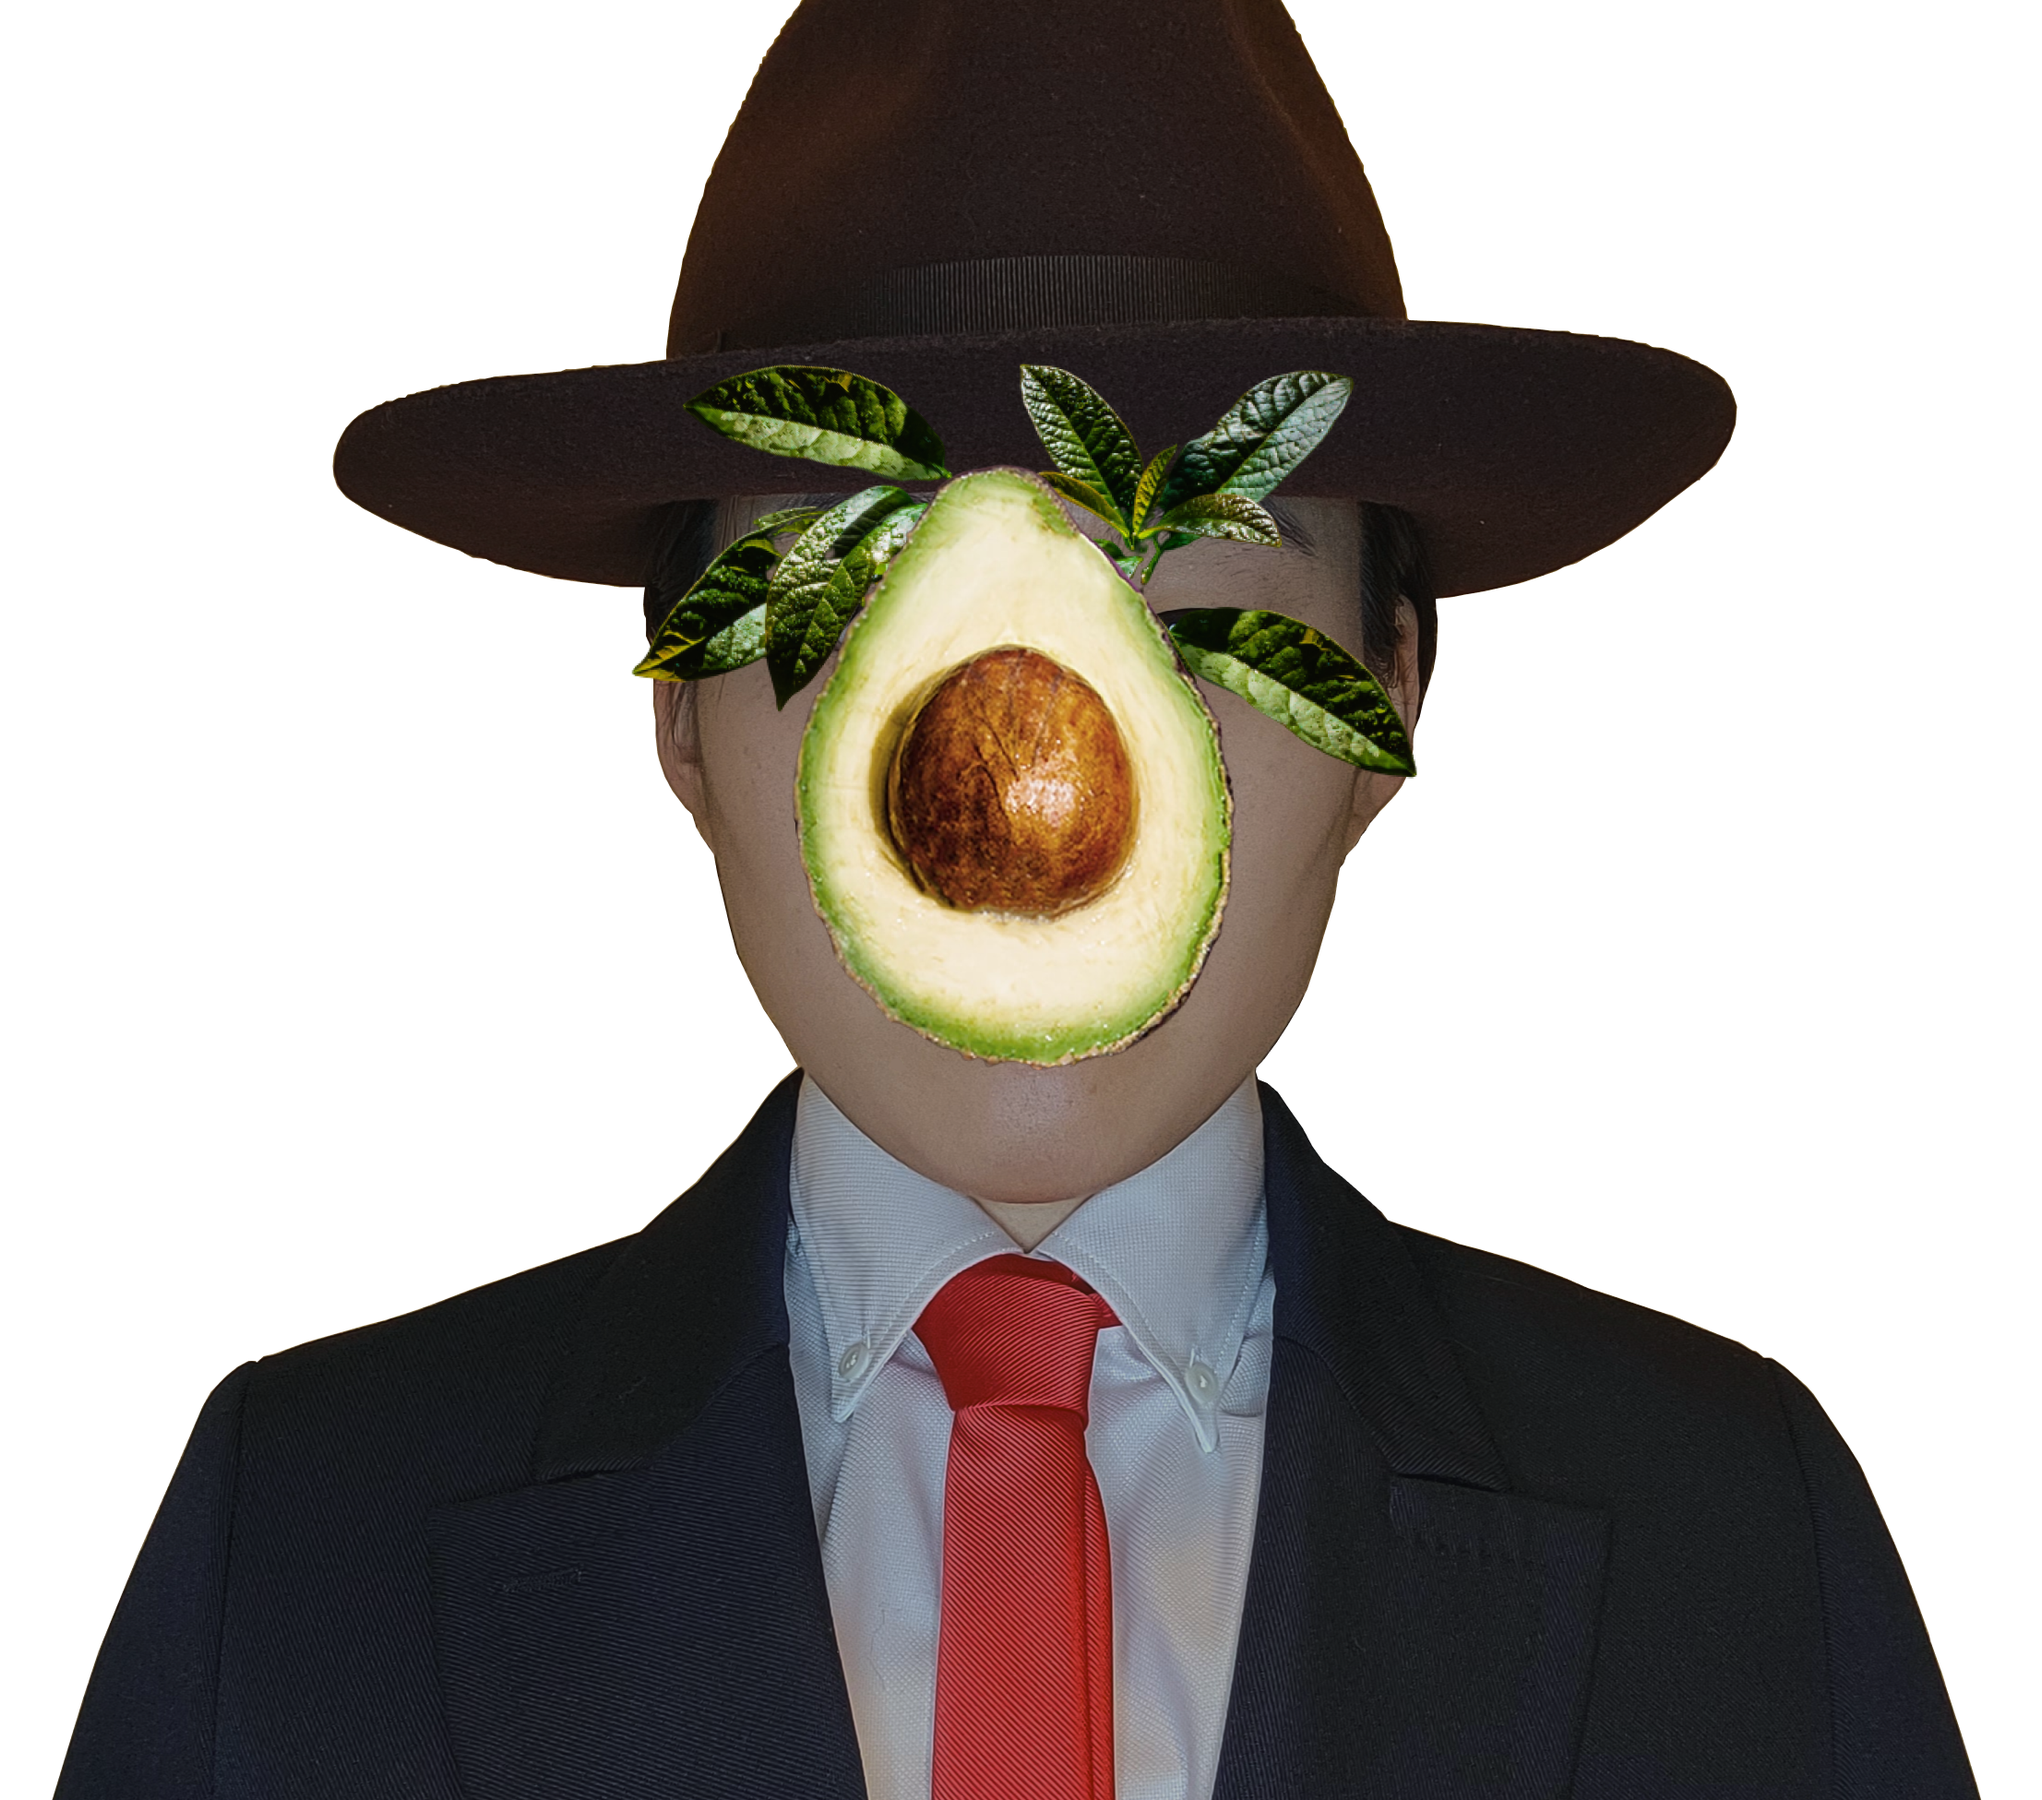
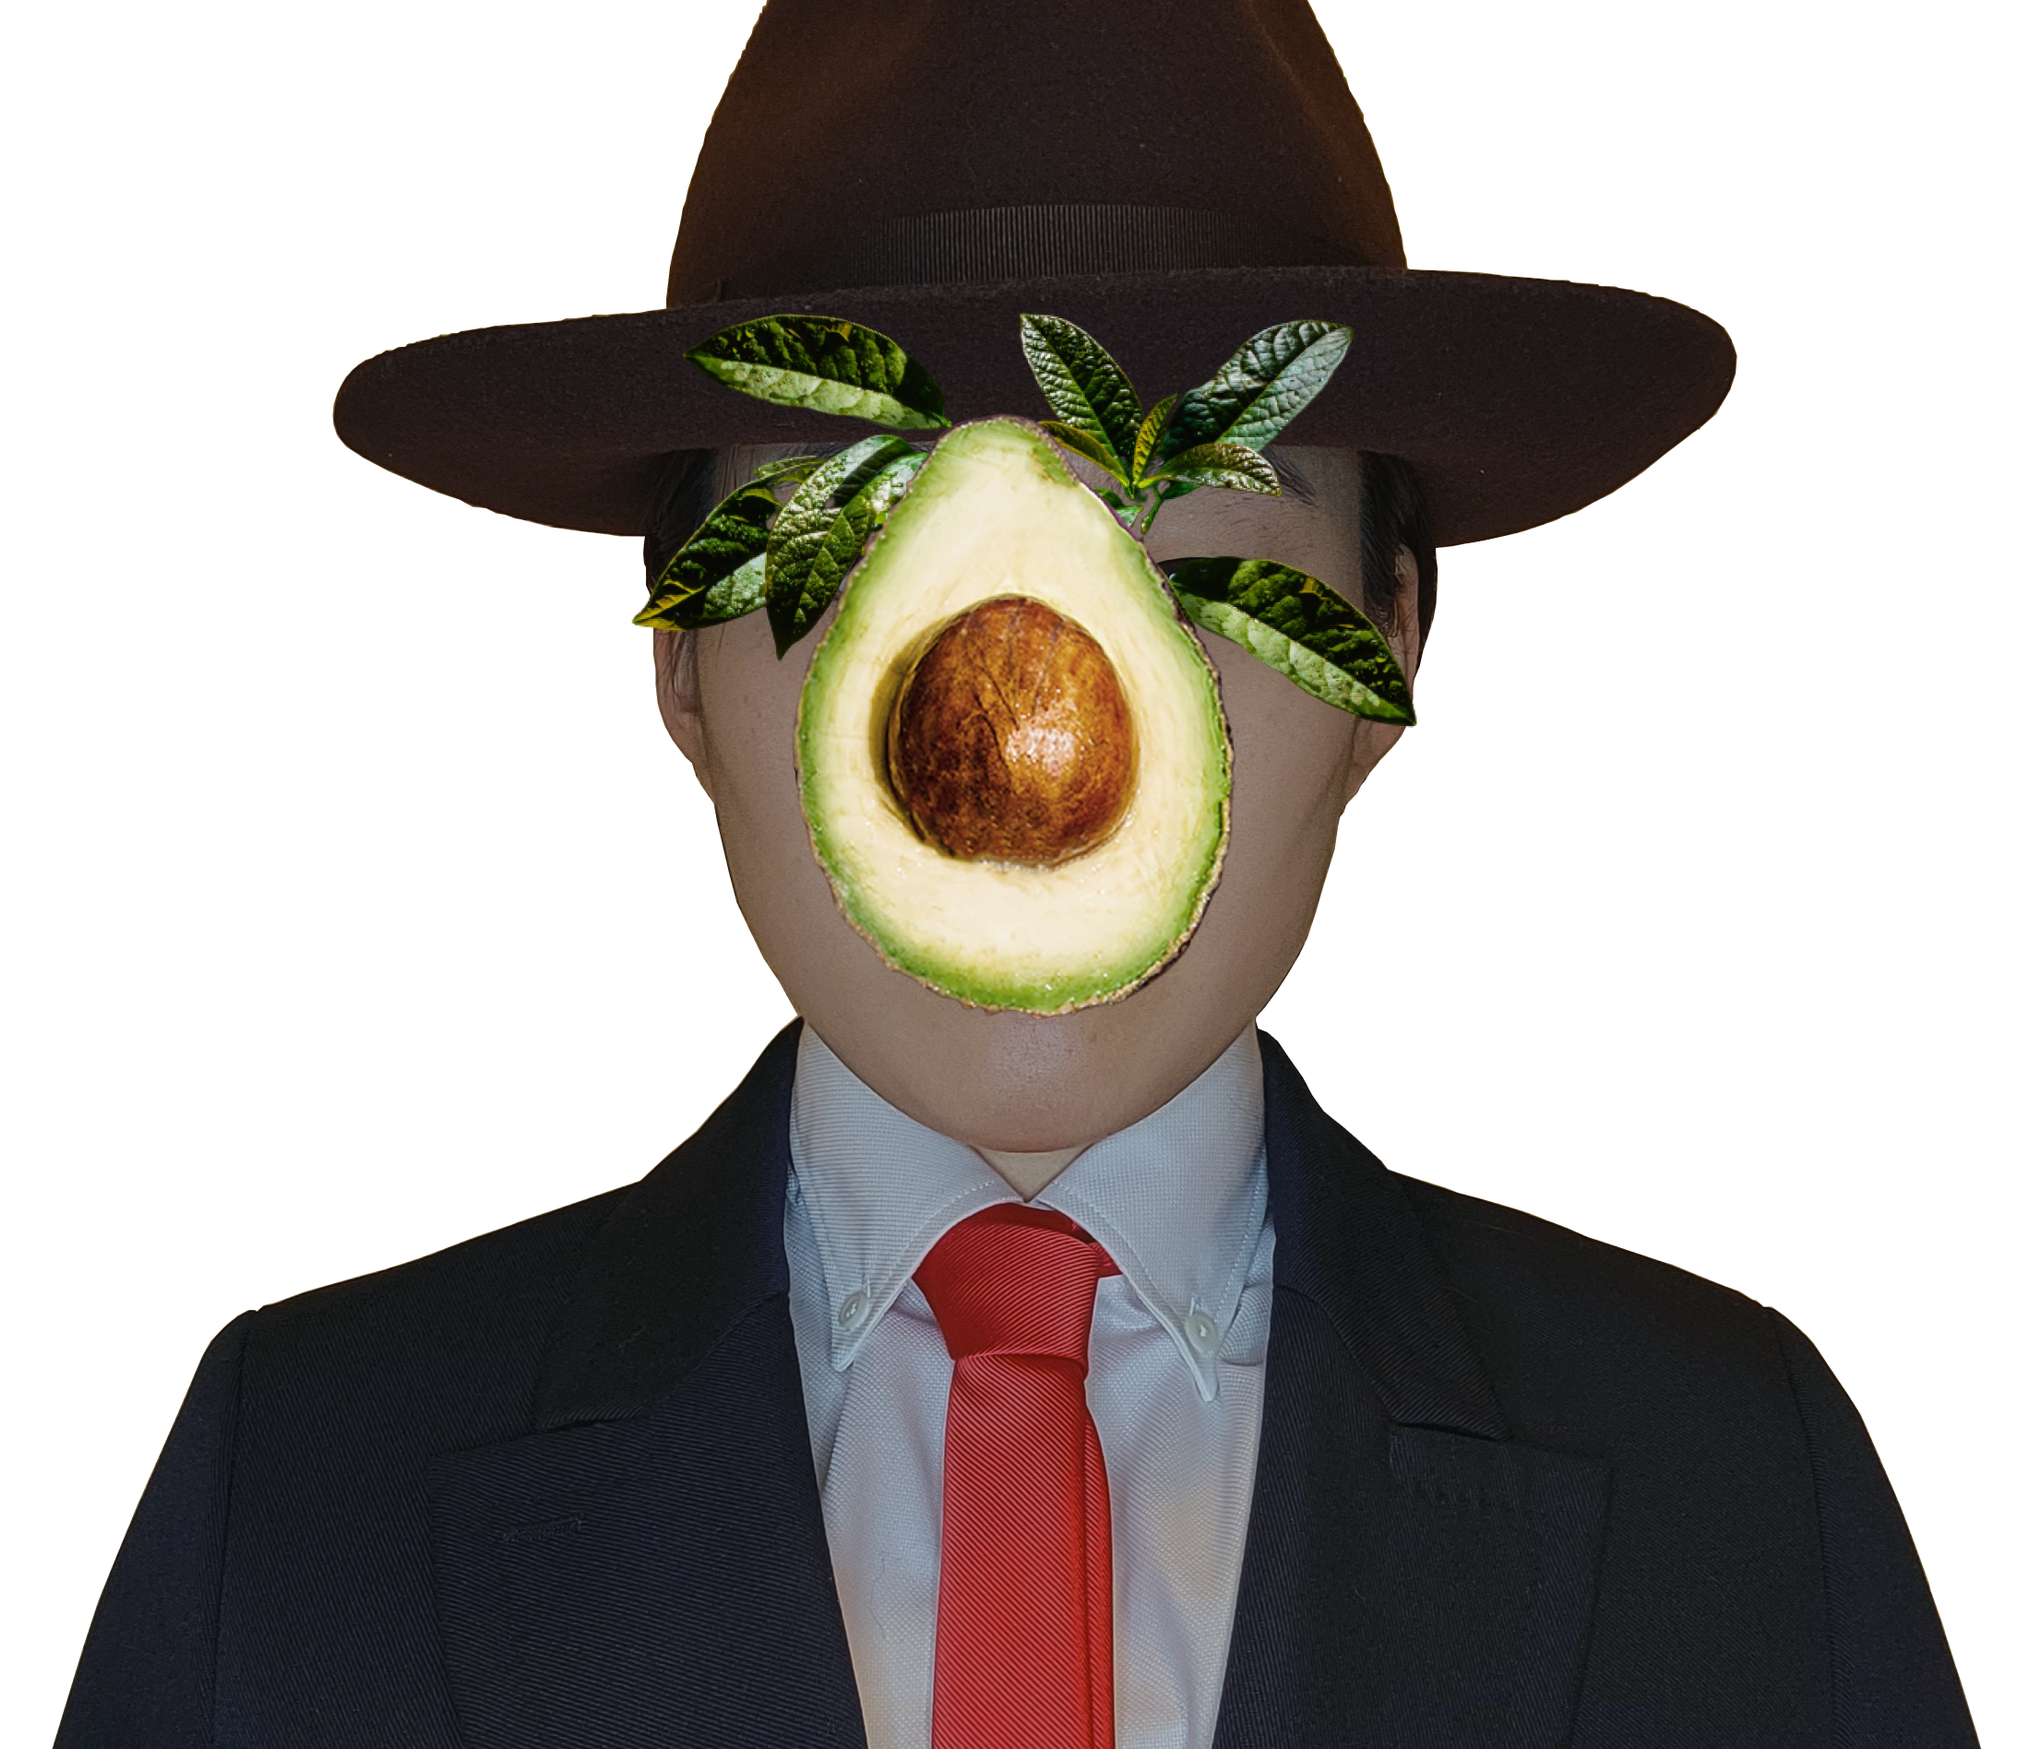
header bug fix

diff --git a/index.html b/index.html
@@ -62,16 +62,17 @@
 
         <!-- INTRODUCTION + HERO -->
         <div class= "intro-index">
-          <div class="fade-in one">
-            <img class="hero-desktop" src="images/header/header-image-desktop.png"
-              alt="Image of GRACE LEE paying homage to Magritte's Son of Man
-              but with an avocado over face instead of apple">
-            <img class="hero-mobile" src="images/header/header-image-mobile.png"
-              alt="Image of GRACE LEE paying homage to Magritte's Son of Man
-              but with an avocado over face instead of apple">
+          <div class="fade-in one combine-image">
             <img class="circle-animation one image" src="images/header/circle.png"
               alt="animated circle">
-
+            <div class="image-cluster">
+              <img class="hero-desktop" src="images/header/header-image-desktop.png"
+                alt="Image of GRACE LEE paying homage to Magritte's Son of Man
+                but with an avocado over face instead of apple">
+              <img class="hero-mobile" src="images/header/header-image-mobile.png"
+                alt="Image of GRACE LEE paying homage to Magritte's Son of Man
+                but with an avocado over face instead of apple">
+            </div>
           </div>
 
           <h1 class="fade-in two">GRACE LEE</h1>
@@ -311,6 +312,18 @@
     <!-- JAVASCRIPT -->
     <script src="https://ajax.googleapis.com/ajax/libs/jquery/1.12.4/jquery.min.js"></script>
     <script src="js/script.js"></script>
+    <script>
+    var docWidth = document.documentElement.offsetWidth;
+
+    [].forEach.call(
+      document.querySelectorAll('*'),
+      function(el) {
+        if (el.offsetWidth > docWidth) {
+          console.log(el);
+        }
+      }
+    );
+    </script>
 
     <!-- Global site tag (gtag.js) - Google Analytics -->
     <script async src="https://www.googletagmanager.com/gtag/js?id=UA-126022629-1"></script>

diff --git a/styles/main.css b/styles/main.css
@@ -125,28 +125,34 @@ nav .icon:hover {
   overflow: hidden;
   background-color: var(--background-color);
 }
-.hero-desktop {
+.combine-image {
   width: 1000px;
+  height: 700px;
+  margin: auto;
+  overflow: hidden;
 }
-.circle-animation {
-  /* width: 100%; */
-  width: 628px;
-  display: block;
-  /* margin: auto;
-  margin-top: -52rem;
-  margin-bottom: 7rem;
-  padding-bottom: 1rem; */
-
+.image-cluster {
   position: absolute;
   left: 0;
   right: 0;
-  top: 120px;
   margin: auto;
-  z-index: -1;
-
+  margin-top: -650px;
+  z-index: 1;
+  overflow: hidden;
+}
+.hero-desktop {
+  width: 807px;
+  overflow-x: hidden;
+}
+.circle-position {
+  padding-top: 1rem;
+  overflow: hidden;
+}
+.circle-animation {
+  width: 628px;
+  padding-top: 1rem;
   animation: rotation 150s infinite linear;
  }
-
 .hero-mobile {
   width: 100%;
   display: none;
@@ -154,22 +160,11 @@ nav .icon:hover {
 .intro-index h1 {
   margin-top: -16rem;
   color: white;
-  /* margin-bottom: 1rem; */
 }
 .intro-index h3 {
   color: white;
   padding-bottom: 1rem;
 }
-/* .intro h3, .intro p {
-  width: 50%;
-  margin: auto;
-}
-.intro img {
-  width: 60%;
-  margin: auto;
-  padding-bottom: 20px;
-  max-width: 850px;
-} */
 .center {
   text-align: center;
 }
@@ -180,6 +175,7 @@ nav .icon:hover {
 .top-space {
   padding-top: var(--half-height);
 }
+
 /**** TEXT BLOCK ****/
 .text {
   margin: auto;

diff --git a/styles/media-only.css b/styles/media-only.css
@@ -111,30 +111,6 @@
   .text {
     width: var(--mobile-margin);
   }
-  h1 {
-    font-size: 5rem;
-  }
-  .intro-subheader {
-    font-size: 1.3rem;
-  }
-  .hero-desktop {
-    display: none;
-  }
-  .hero-mobile {
-    display: block;
-  }
-  .circle-animation {
-    width: 355px;
-    position: absolute;
-    left: 0;
-    right: 0;
-    top: 120px;
-    margin: auto;
-    z-index: -1;
-  }
-  .intro-index h1 {
-    margin-top: -17rem;
-  }
 
   /**** HIDE SCROLL UP BUTTON ****/
   .float {
@@ -209,12 +185,37 @@
   }
 }
 
-/* MICRO CHANGES */
-@media only screen and (max-width: 550px) {
-  /* .intro-index {
-    padding-bottom: var(--half-height);
-  } */
-  .intro-index h1 {
-    margin-top: -14rem;
+/* HEADER */
+@media only screen and (max-width: 600px) {
+  h1 {
+    font-size: 5rem;
+  }
+  .combine-image {
+    width: 400px;
+    height: 713px;
+  }
+  .intro-subheader {
+    font-size: 1.3rem;
+  }
+  .hero-desktop {
+    display: none;
+  }
+  .hero-mobile {
+    display: block;
+    margin: auto;
+    margin-top: 317px;
+    width: 500px;
+    overflow-x: hidden;
+  }
+  .circle-animation {
+    width: 300px;
+    margin: auto;
+    margin-top: 2rem;
+  }
+}
+
+@media only screen and (max-width: 450px) {
+  .hero-mobile {
+    margin-left: -4rem;
   }
 }

diff --git a/js/script-project.js b/js/script-project.js
@@ -63,5 +63,4 @@ $(function() {
       		relY = e.pageY - parentOffset.top;
     	$(this).find('span').css({top:relY, left:relX})
     });
-  // $('[href=#]').click(function(){return false});
 });
